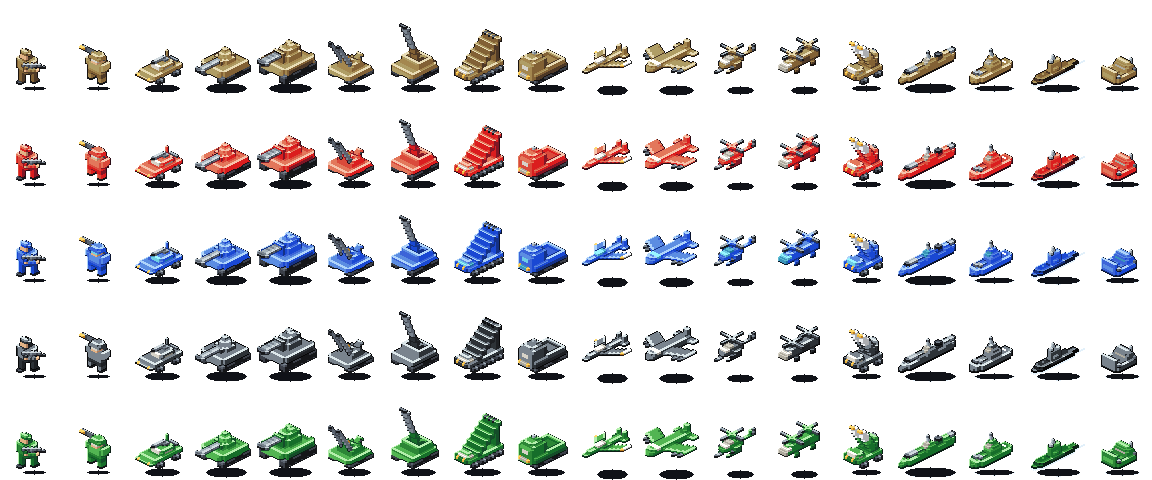
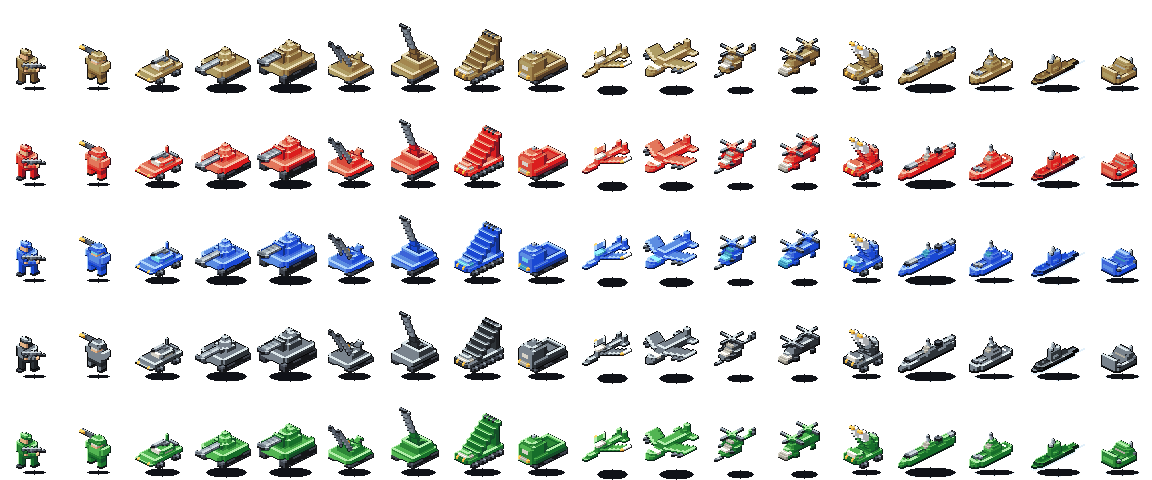
Fly the four aircraft nose-down in the move clip
Air used to animate by altitude alone, so the move sheets said nothing
the ambient pair did not. Each aircraft now holds one board texel of
nose-down under way (dz = -2 on the forward assembly), which is the only
thing a single-facing sheet may say about heading: the hull never
translates, the airframe's screen line rotates about the wing root or
the mast.

The break is per airframe, not per table. The fighter's is ahead of the
canopy: through it, the glass split into two blocks two voxels apart and
the jet grew a second cockpit. The tandem's is ahead of the forward
mast, which is bolted to the roof it stands on and would otherwise hang
over two voxels of air. Fighter, bomber and t_copter repaint one course
of belly behind the moved section so the step does not pinch the join;
the b_copter's fuselage is deep enough there to close it by itself.

Rotors and altitude still tick with the FRAME, so MOVE_A/MOVE_B differ
by the blade phase and the bob exactly as A/B do: 30 / 38 / 28 / 32
silhouette texels at rung 1, shimmer 0.82-1.42, mass drift under 0.012,
and each move frame's nearest neighbour is still its own unit.

test_a_frame_ticking_branch_reads_the_beat_not_the_pose asked the whole
model, which only held while the copters had no move art; it now asks
the rotor voxels it names.

diff --git a/spritegen/units.py b/spritegen/units.py
@@ -92,10 +92,10 @@ def beat(pose: Pose) -> bool:
     return Pose(pose) in (Pose.B, Pose.MOVE_B)
 
 
-# The uids that author the move clip. Empty for now: the move sheets ship as
-# copies of the ambient pair and each family task adds its units here as it
-# hand-places their strides.
-MOVES: frozenset[str] = frozenset()
+# The uids that author the move clip. Each family task adds its units here as
+# it hand-places their strides; everything absent still renders its ambient
+# counterpart onto the move sheets.
+MOVES: frozenset[str] = frozenset({"fighter", "bomber", "b_copter", "t_copter"})
 
 
 # ---------------------------------------------------------------------------
@@ -994,6 +994,17 @@ def fighter(pose: Pose = Pose.A) -> Model:
     m.box(4, 5, 0, 0, 3, 4, "gunmetal_dk")
     m.set(4, -1, 3, "bore")
     m.set(5, -1, 3, "bore")
+    if moving(pose):
+        # Under way the jet holds one board texel of nose-down (dz = -2): the
+        # fuselage ahead of the cockpit and the radome drop, while the wings,
+        # the intakes and the nozzles stay where pose A has them, so the
+        # airframe's screen line ROTATES about the wing root instead of
+        # translating. The break is AHEAD of the canopy (y14): taken through
+        # it at y12 the glass split into two blocks two voxels apart and the
+        # jet grew a second cockpit. The y13 course is repainted a voxel
+        # deeper so the step down to the nose does not open a hole.
+        _shift(m, (4, 5, 14, 19, 3, 5), dz=-2)
+        m.box(4, 5, 13, 13, 2, 2, "hull")
     return m
 
 
@@ -1030,6 +1041,13 @@ def bomber(pose: Pose = Pose.A) -> Model:
     m.box(5, 6, 2, 2, 5, 6, "body_dk")
     # tail turret hint
     m.box(5, 6, 0, 0, 3, 3, "gunmetal_dk")
+    if moving(pose):
+        # Same held nose-down as the fighter: the forward fuselage, the flight
+        # deck and the nose cap drop a board texel, the wings, pods and tail
+        # hold their line. One course of fuselage at y13 is repainted deeper
+        # so the break behind the flight deck stays closed.
+        _shift(m, (4, 7, 14, 20, 3, 5), dz=-2)
+        m.box(4, 7, 13, 13, 2, 2, "hull")
     return m
 
 
@@ -1075,6 +1093,15 @@ def b_copter(pose: Pose = Pose.A) -> Model:
     # The rotor ticks with the FRAME, not the clip: a moving helicopter's
     # blades are at the off-beat position on MOVE_B exactly as on B.
     _rotor(m, 4, 10, 9, _BLADE_B if beat(pose) else _BLADE_A)
+    if moving(pose):
+        # A helicopter under way flies nose-down, and that attitude is what
+        # says heading on a sheet that may never translate the hull. The nose,
+        # the tandem canopy and the chin gun drop one board texel (dz = -2)
+        # about the mast, which stays: the disc is the part the eye tracks and
+        # tilting it would read as a second animation. The break needs no
+        # course repainted behind it: the fuselage is three voxels deep here,
+        # so the dropped section still overlaps the one it left.
+        _shift(m, (3, 5, 12, 18, 2, 6), dz=-2)
     return m
 
 
@@ -1113,6 +1140,15 @@ def t_copter(pose: Pose = Pose.A) -> Model:
     blade = _BLADE_B if beat(pose) else _BLADE_A
     _rotor(m, 4, 4, 9, blade, clipped=True)
     _rotor(m, 5, 13, 9, blade, clipped=True)
+    if moving(pose):
+        # The tandem's nose-down starts AHEAD of the forward mast (y14): the
+        # mast is bolted to the roof it stands on, so a break at y11 would
+        # leave the disc hanging over two voxels of air. Cockpit, glazing and
+        # the front of the hold drop a board texel; hold, sponsons, ramp and
+        # both discs keep pose A's line, and the belly course at y13 is
+        # repainted a voxel deeper so the break stays closed.
+        _shift(m, (3, 6, 14, 17, 3, 6), dz=-2)
+        m.box(3, 6, 13, 13, 2, 2, "hull")
     return m
 
 

diff --git a/tests/test_anim_manifest.py b/tests/test_anim_manifest.py
@@ -190,12 +190,24 @@ class MoveFallback(unittest.TestCase):
         directly: a branch that ticks with the FRAME — the rotor phase — must
         give MOVE_A the A art and MOVE_B the B art. Written as
         `X if pose is Pose.A else Y` it would hand MOVE_A the off-beat blade,
-        and the first authored copter stride would inherit the bug."""
+        and the first authored copter stride would inherit the bug.
+
+        It is asked of the ROTOR voxels alone. When it was written the copters
+        had no move art and the whole model answered it; now that they hold a
+        nose-down attitude under way, the airframe legitimately differs from
+        its ambient key and only the disc — the part that ticks with the frame
+        rather than with the clip — has to match frame for frame."""
         for uid in ("b_copter", "t_copter"):
             builder = UNITS[uid][0]
             for move, ambient in ((Pose.MOVE_A, Pose.A), (Pose.MOVE_B, Pose.B)):
                 with self.subTest(unit=uid, pose=move.name):
-                    self.assertEqual(builder(move).vox, builder(ambient).vox)
+                    self.assertEqual(
+                        self._rotor(builder(move)), self._rotor(builder(ambient))
+                    )
+
+    @staticmethod
+    def _rotor(model) -> set:
+        return {v for v, mat in model.vox.items() if mat == "rotor"}
 
     def test_the_clip_table_names_the_clips_the_manifest_publishes(self):
         """`units.CLIP_POSES` is what a family task reads to know which poses
